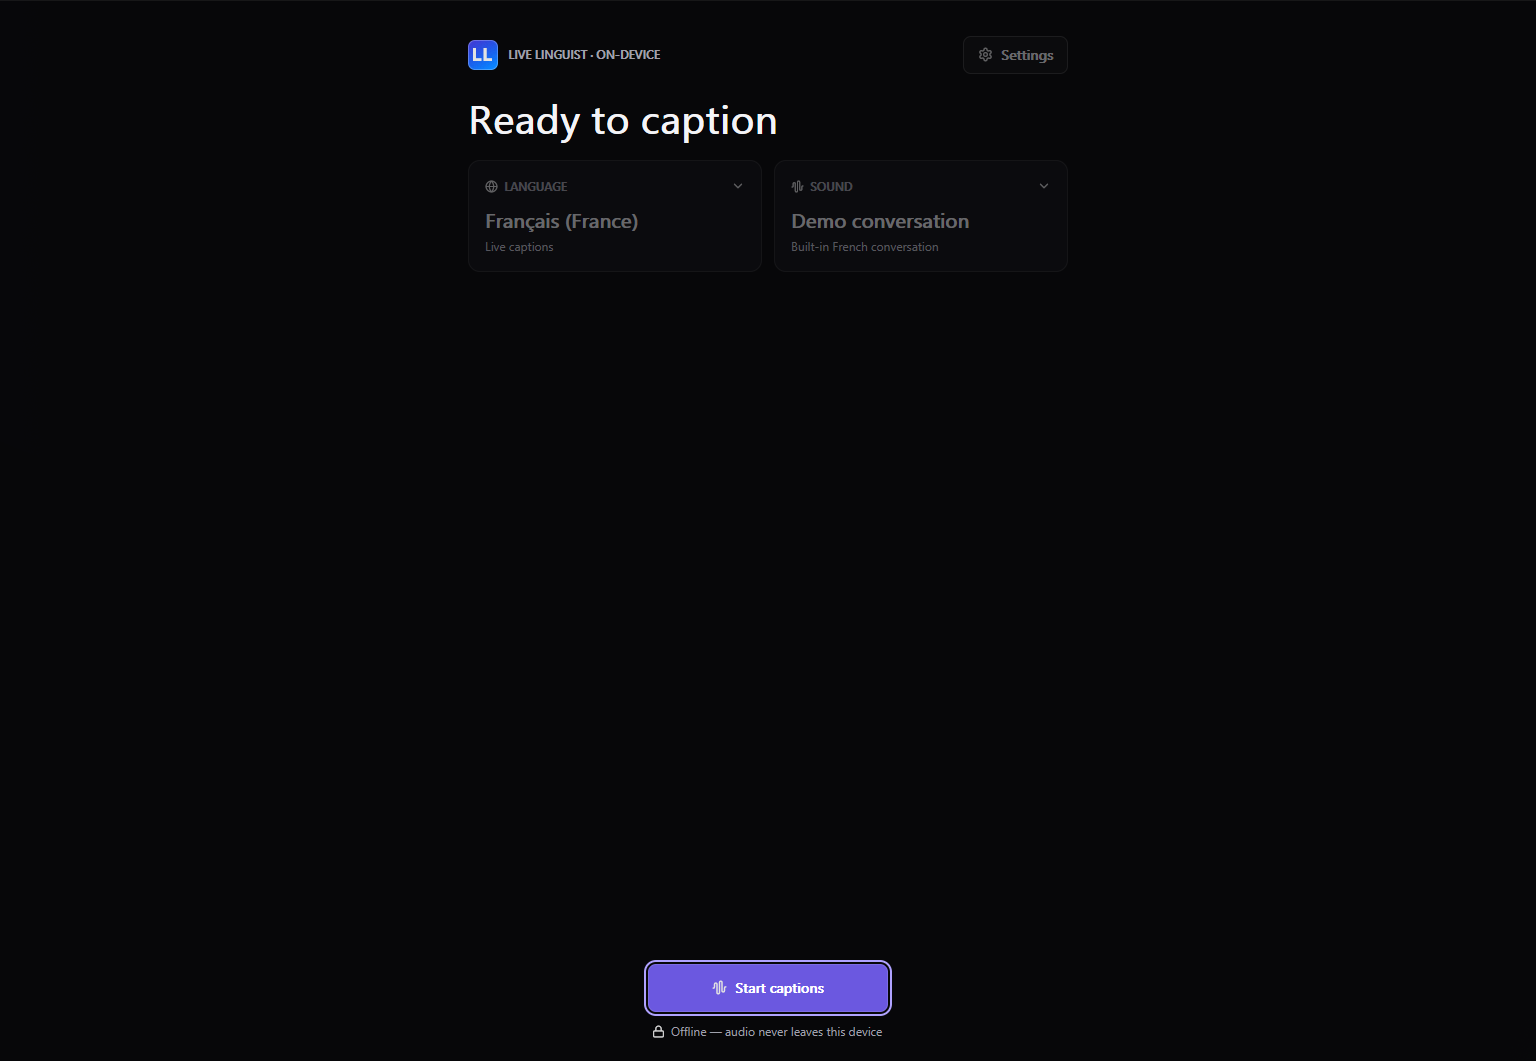
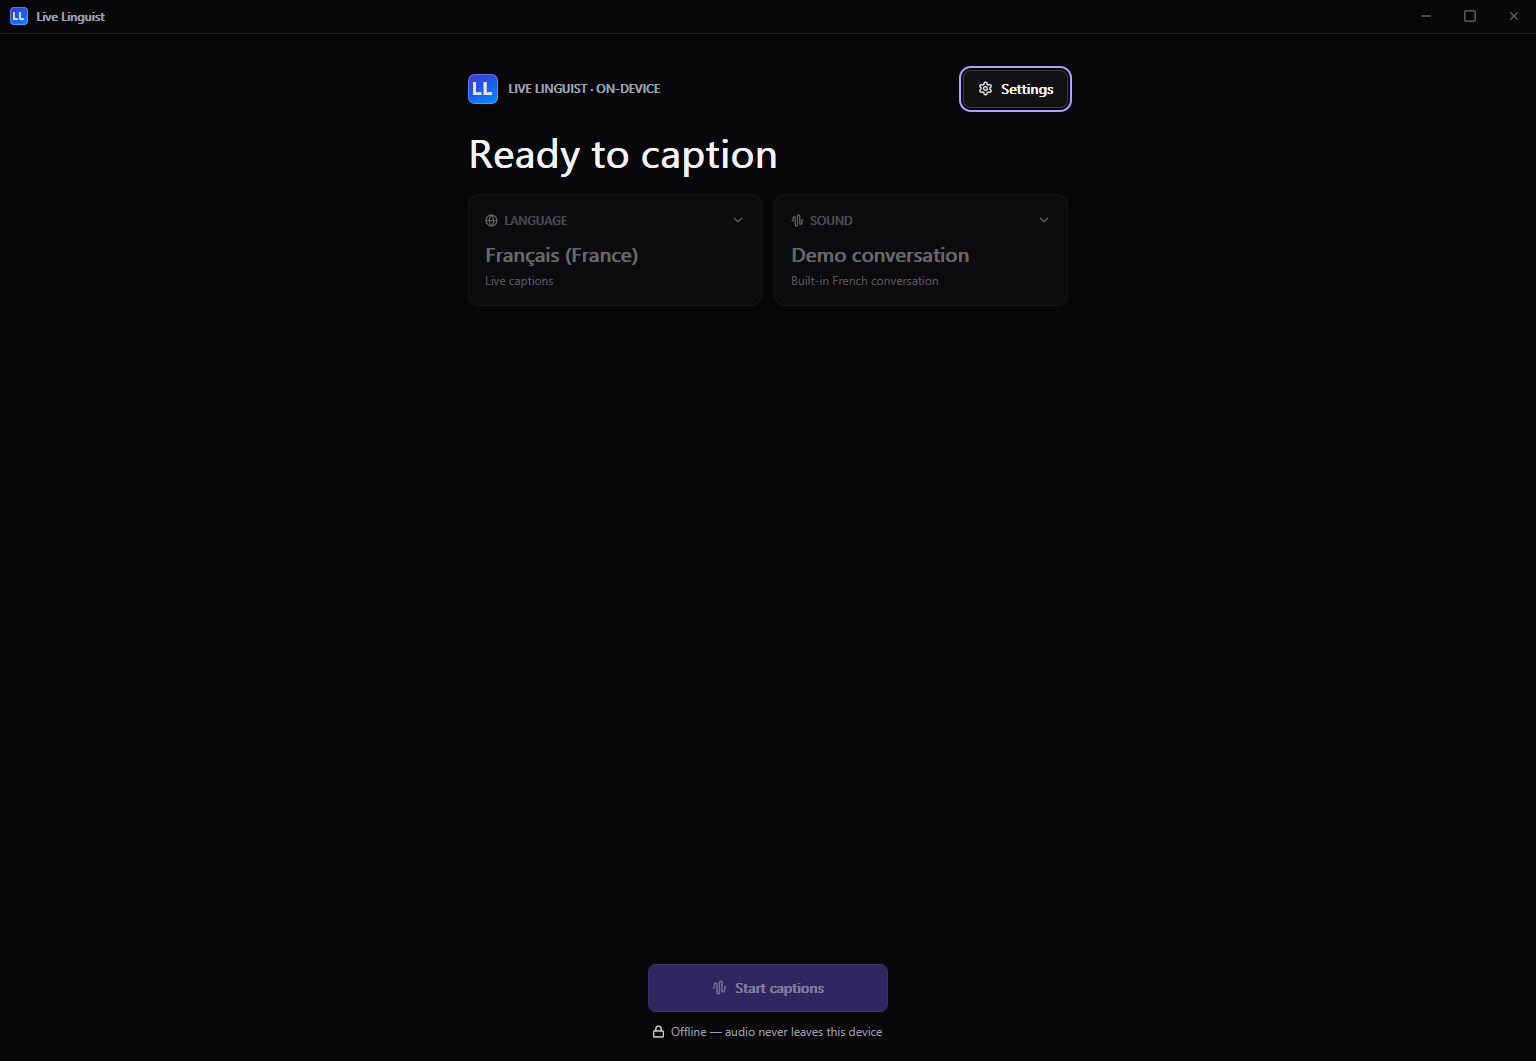
ui: custom title bar with drag, minimize, maximize and close
The frameless GPUIX window had no caption, so users could not move or resize the window or find minimize/maximize. Add a 34px WindowChrome above every screen except the caption overlay: a drag region using the native move helper, double-click to maximize, and explicit minimize/maximize/close buttons (Lucide minus/square/x). Close goes through a new ll-window close_current_window (WM_CLOSE) exposed by the bridge as closeWindow; the UI falls back to quitting if the addon predates it. Drag now uses HWND_TOP so a moved console is not left always-on-top.

diff --git a/ui/src/aurora/iconData.ts b/ui/src/aurora/iconData.ts
@@ -16,6 +16,7 @@ export const ICON_PATHS = {
   "maximize-2": `<svg xmlns="http://www.w3.org/2000/svg" width="24" height="24" viewBox="0 0 24 24" fill="none" stroke="currentColor" stroke-width="2" stroke-linecap="round" stroke-linejoin="round" ><path d="M15 3h6v6" /><path d="m21 3-7 7" /><path d="m3 21 7-7" /><path d="M9 21H3v-6" /></svg>`,
   mic: `<svg xmlns="http://www.w3.org/2000/svg" width="24" height="24" viewBox="0 0 24 24" fill="none" stroke="currentColor" stroke-width="2" stroke-linecap="round" stroke-linejoin="round" ><path d="M12 19v3" /><path d="M19 10v2a7 7 0 0 1-14 0v-2" /><rect x="9" y="2" width="6" height="13" rx="3" /></svg>`,
   "minimize-2": `<svg xmlns="http://www.w3.org/2000/svg" width="24" height="24" viewBox="0 0 24 24" fill="none" stroke="currentColor" stroke-width="2" stroke-linecap="round" stroke-linejoin="round" ><path d="m14 10 7-7" /><path d="M20 10h-6V4" /><path d="m3 21 7-7" /><path d="M4 14h6v6" /></svg>`,
+  minus: `<svg xmlns="http://www.w3.org/2000/svg" width="24" height="24" viewBox="0 0 24 24" fill="none" stroke="currentColor" stroke-width="2" stroke-linecap="round" stroke-linejoin="round" ><path d="M5 12h14" /></svg>`,
   move: `<svg xmlns="http://www.w3.org/2000/svg" width="24" height="24" viewBox="0 0 24 24" fill="none" stroke="currentColor" stroke-width="2" stroke-linecap="round" stroke-linejoin="round" ><path d="M12 2v20" /><path d="m15 19-3 3-3-3" /><path d="m19 9 3 3-3 3" /><path d="M2 12h20" /><path d="m5 9-3 3 3 3" /><path d="m9 5 3-3 3 3" /></svg>`,
   pause: `<svg xmlns="http://www.w3.org/2000/svg" width="24" height="24" viewBox="0 0 24 24" fill="none" stroke="currentColor" stroke-width="2" stroke-linecap="round" stroke-linejoin="round" ><rect x="14" y="3" width="5" height="18" rx="1" /><rect x="5" y="3" width="5" height="18" rx="1" /></svg>`,
   play: `<svg xmlns="http://www.w3.org/2000/svg" width="24" height="24" viewBox="0 0 24 24" fill="none" stroke="currentColor" stroke-width="2" stroke-linecap="round" stroke-linejoin="round" ><path d="M5 5a2 2 0 0 1 3.008-1.728l11.997 6.998a2 2 0 0 1 .003 3.458l-12 7A2 2 0 0 1 5 19z" /></svg>`,
@@ -23,6 +24,7 @@ export const ICON_PATHS = {
   settings: `<svg xmlns="http://www.w3.org/2000/svg" width="24" height="24" viewBox="0 0 24 24" fill="none" stroke="currentColor" stroke-width="2" stroke-linecap="round" stroke-linejoin="round" ><path d="M9.671 4.136a2.34 2.34 0 0 1 4.659 0 2.34 2.34 0 0 0 3.319 1.915 2.34 2.34 0 0 1 2.33 4.033 2.34 2.34 0 0 0 0 3.831 2.34 2.34 0 0 1-2.33 4.033 2.34 2.34 0 0 0-3.319 1.915 2.34 2.34 0 0 1-4.659 0 2.34 2.34 0 0 0-3.32-1.915 2.34 2.34 0 0 1-2.33-4.033 2.34 2.34 0 0 0 0-3.831A2.34 2.34 0 0 1 6.35 6.051a2.34 2.34 0 0 0 3.319-1.915" /><circle cx="12" cy="12" r="3" /></svg>`,
   square: `<svg xmlns="http://www.w3.org/2000/svg" width="24" height="24" viewBox="0 0 24 24" fill="none" stroke="currentColor" stroke-width="2" stroke-linecap="round" stroke-linejoin="round" ><rect width="18" height="18" x="3" y="3" rx="2" /></svg>`,
   "triangle-exclamation-point": `<svg xmlns="http://www.w3.org/2000/svg" width="24" height="24" viewBox="0 0 24 24" fill="none" stroke="currentColor" stroke-width="2" stroke-linecap="round" stroke-linejoin="round" ><path d="m21.73 18-8-14a2 2 0 0 0-3.48 0l-8 14A2 2 0 0 0 4 21h16a2 2 0 0 0 1.73-3" /><path d="M12 9v4" /><path d="M12 17h.01" /></svg>`,
+  x: `<svg xmlns="http://www.w3.org/2000/svg" width="24" height="24" viewBox="0 0 24 24" fill="none" stroke="currentColor" stroke-width="2" stroke-linecap="round" stroke-linejoin="round" ><path d="M18 6 6 18" /><path d="m6 6 12 12" /></svg>`,
 } as const;
 
 export type IconName = keyof typeof ICON_PATHS;

diff --git a/ui/src/aurora/WindowChrome.tsx b/ui/src/aurora/WindowChrome.tsx
@@ -1,0 +1,101 @@
+import { BrandMark, Icon } from "./components";
+import type { IconName } from "./iconData";
+import { colors, textStyle, type } from "./theme";
+
+/**
+ * Custom title bar for the frameless GPUIX window: a drag region that starts
+ * the native move loop, double-click to maximize, and the three window
+ * buttons. Rendered everywhere except the caption overlay, which keeps its own
+ * Move control.
+ */
+export function WindowChrome({
+  onDrag,
+  onMinimize,
+  onToggleMax,
+  onClose,
+}: {
+  onDrag: () => void;
+  onMinimize: () => void;
+  onToggleMax: () => void;
+  onClose: () => void;
+}) {
+  return (
+    <div
+      style={{
+        height: 34,
+        flexShrink: 0,
+        display: "flex",
+        flexDirection: "row",
+        alignItems: "stretch",
+        backgroundColor: colors.bgDeep,
+        borderBottomWidth: 1,
+        borderColor: colors.border,
+        userSelect: "none",
+      }}
+    >
+      <div
+        onMouseDown={(event) => {
+          if (event.clickCount === 2) onToggleMax();
+          else onDrag();
+        }}
+        style={{
+          display: "flex",
+          flexDirection: "row",
+          alignItems: "center",
+          gap: 8,
+          flexGrow: 1,
+          minWidth: 0,
+          paddingLeft: 10,
+          cursor: "default",
+        }}
+      >
+        <BrandMark size={18} />
+        <text style={{ ...textStyle(type.meta, colors.faint, 600), whiteSpace: "nowrap" }}>
+          Live Linguist
+        </text>
+      </div>
+      <ChromeButton label="Minimize" icon="minus" onClick={onMinimize} />
+      <ChromeButton label="Maximize or restore" icon="square" onClick={onToggleMax} />
+      <ChromeButton label="Close" icon="x" onClick={onClose} close />
+    </div>
+  );
+}
+
+function ChromeButton({
+  label,
+  icon,
+  onClick,
+  close = false,
+}: {
+  label: string;
+  icon: IconName;
+  onClick: () => void;
+  close?: boolean;
+}) {
+  return (
+    <div
+      role="button"
+      tabIndex={0}
+      aria-label={label}
+      onClick={onClick}
+      onKeyDown={(event) => {
+        if (event.key === "enter" || event.key === "space" || event.key === " ") {
+          event.preventDefault();
+          onClick();
+        }
+      }}
+      style={{
+        width: 44,
+        display: "flex",
+        alignItems: "center",
+        justifyContent: "center",
+        cursor: "default",
+        hover: { backgroundColor: close ? "#C42B1C" : "#FFFFFF12" },
+        active: { backgroundColor: close ? "#A62417" : "#FFFFFF1C" },
+        focusVisible: { outlineWidth: 2, outlineColor: colors.accent, outlineOffset: -2 },
+      }}
+    >
+      <Icon name={icon} size={14} color={close ? colors.text : colors.muted} />
+    </div>
+  );
+}

diff --git a/ui/src/App.tsx b/ui/src/App.tsx
@@ -5,6 +5,7 @@ import { useGpuixRequired } from "@gpuix/react";
 import { useEffect, useRef, useState } from "react";
 import { AuroraField, Toast } from "./aurora/components";
 import { colors } from "./aurora/theme";
+import { WindowChrome } from "./aurora/WindowChrome";
 import {
   createTransport,
   readWorkArea,
@@ -482,12 +483,43 @@ export function App() {
         width: "100%",
         height: "100%",
         position: "relative",
+        display: "flex",
+        flexDirection: "column",
         overflow: "hidden",
         backgroundColor: colors.bg,
       }}
     >
       <AuroraField active={screen === "live"} />
-      <div style={{ position: "relative", width: "100%", height: "100%" }}>{screenContent}</div>
+      {windowMode === "overlay" ? null : (
+        <WindowChrome
+          onDrag={() => void ensureTransport().beginDrag()}
+          onMinimize={() => {
+            try {
+              renderer.minimizeWindow?.();
+            } catch {
+              // No native window in the renderer harness.
+            }
+          }}
+          onToggleMax={() => {
+            try {
+              renderer.zoomWindow?.();
+            } catch {
+              // No native window in the renderer harness.
+            }
+          }}
+          onClose={() => {
+            void ensureTransport()
+              .closeWindow()
+              .then((closed) => {
+                if (!closed) process.exit(0);
+              })
+              .catch(() => process.exit(0));
+          }}
+        />
+      )}
+      <div style={{ position: "relative", flexGrow: 1, minHeight: 0, width: "100%" }}>
+        {screenContent}
+      </div>
       {toast ? (
         <div
           style={{

diff --git a/ui/src/bridge/transport.ts b/ui/src/bridge/transport.ts
@@ -70,6 +70,7 @@ export interface Transport {
   downloadModels(onEvent: (envelope: Envelope) => void): Promise<void>;
   cancelDownload(): Promise<boolean>;
   beginDrag(): Promise<boolean>;
+  closeWindow(): Promise<boolean>;
   exportTranscript(format: "markdown" | "plain" | "csv", path: string): Promise<string>;
   listSources(): Promise<AudioSourceInfo[]>;
   applyRuntimeConfig(layer: unknown): Promise<RuntimeStatus>;
@@ -96,6 +97,7 @@ interface NativeClient {
   downloadModels(onEvent: (error: Error | null, value: string) => void): void;
   cancelDownload(): boolean;
   beginDrag(): boolean;
+  closeWindow?(): boolean;
   export(format: string, path: string): string;
   listAudioSources(): string;
   applyRuntimeConfig(layerJson: string): string;
@@ -279,6 +281,11 @@ class NativeTransport implements Transport {
 
   async beginDrag(): Promise<boolean> {
     return this.client.beginDrag();
+  }
+
+  async closeWindow(): Promise<boolean> {
+    // The installed addon may predate this method; the UI falls back to quit.
+    return typeof this.client.closeWindow === "function" ? this.client.closeWindow() : false;
   }
 
   async exportTranscript(format: "markdown" | "plain" | "csv", path: string): Promise<string> {
@@ -519,6 +526,10 @@ class DemoTransport implements Transport {
   }
 
   async beginDrag(): Promise<boolean> {
+    return false;
+  }
+
+  async closeWindow(): Promise<boolean> {
     return false;
   }
 

diff --git a/core/crates/ll-window/src/win32.rs b/core/crates/ll-window/src/win32.rs
@@ -17,6 +17,8 @@ type Hresult = i32;
 
 const HWND_TOPMOST: Hwnd = -1;
 const HWND_NOTOPMOST: Hwnd = -2;
+const HWND_TOP: Hwnd = 0;
+const WM_CLOSE: u32 = 0x0010;
 const WM_MOUSEACTIVATE: u32 = 0x0021;
 const MA_NOACTIVATE: isize = 3;
 const VK_LBUTTON: i32 = 0x01;
@@ -61,6 +63,7 @@ extern "system" {
     fn IsWindowVisible(hwnd: Hwnd) -> i32;
     fn GetCursorPos(point: *mut Point) -> i32;
     fn GetAsyncKeyState(key: i32) -> i16;
+    fn PostMessageW(hwnd: Hwnd, msg: u32, wparam: usize, lparam: isize) -> i32;
     fn GetWindowRect(hwnd: Hwnd, rect: *mut Rect) -> i32;
     #[cfg(test)]
     fn SendMessageW(hwnd: Hwnd, msg: u32, wparam: usize, lparam: isize) -> isize;
@@ -395,7 +398,7 @@ pub fn begin_drag_current() -> bool {
                 }
                 SetWindowPos(
                     hwnd,
-                    HWND_TOPMOST,
+                    HWND_TOP,
                     cursor.x - offset_x,
                     cursor.y - offset_y,
                     0,
@@ -407,6 +410,17 @@ pub fn begin_drag_current() -> bool {
         });
         true
     }
+}
+
+/// Ask the app window to close, the same path as the native close button:
+/// WM_CLOSE ends the event loop and the process.
+pub fn close_current() -> bool {
+    let pid = unsafe { GetCurrentProcessId() };
+    let hwnd = find_window(pid, "");
+    if hwnd == 0 {
+        return false;
+    }
+    unsafe { PostMessageW(hwnd, WM_CLOSE, 0, 0) != 0 }
 }
 
 #[cfg(test)]

diff --git a/core/crates/ll-bridge/src/lib.rs b/core/crates/ll-bridge/src/lib.rs
@@ -18,7 +18,8 @@ use ll_core::session::{AudioSourceKind, SessionConfiguration, SimplificationMode
 use ll_llm::{DemoBackend, FaultyBackend};
 use ll_pipeline::{ActiveJob, ClickOutcome, Pipeline, PipelineConfig};
 use ll_window::{
-    apply_for_current_window, begin_drag, resize_current_window, work_area, WindowPolicyResult,
+    apply_for_current_window, begin_drag, close_current_window, resize_current_window, work_area,
+    WindowPolicyResult,
 };
 use napi::bindgen_prelude::*;
 use napi::threadsafe_function::{ThreadsafeFunction, ThreadsafeFunctionCallMode};
@@ -634,6 +635,12 @@ impl CoreClient {
     #[napi]
     pub fn begin_drag(&self) -> bool {
         begin_drag()
+    }
+
+    /// Close the native window (custom title bar close button).
+    #[napi]
+    pub fn close_window(&self) -> bool {
+        close_current_window()
     }
 
     #[napi]

diff --git a/core/crates/ll-window/src/lib.rs b/core/crates/ll-window/src/lib.rs
@@ -169,6 +169,18 @@ pub fn begin_drag() -> bool {
     }
 }
 
+/// Ask the app window to close through the native path (WM_CLOSE on Windows).
+pub fn close_current_window() -> bool {
+    #[cfg(target_os = "windows")]
+    {
+        win32::close_current()
+    }
+    #[cfg(not(target_os = "windows"))]
+    {
+        false
+    }
+}
+
 #[cfg(test)]
 mod tests {
     use super::*;

diff --git a/docs/screenshots/m2-windows/README.md b/docs/screenshots/m2-windows/README.md
@@ -33,6 +33,10 @@ those captures share that canvas. `settings-developer.png` shows
 `Renderer: directx · GPU` and `Adapter: NVIDIA GeForce RTX 5060 Ti`, measured by
 DXGI.
 
+Every capture except `overlay.png` includes the custom title bar (drag region,
+minimize / maximize / close) added in ADR 0027; the overlay stays frameless and
+keeps its own Move control.
+
 Reproduce from an elevated PowerShell on the logged-on desktop:
 
 ```powershell
